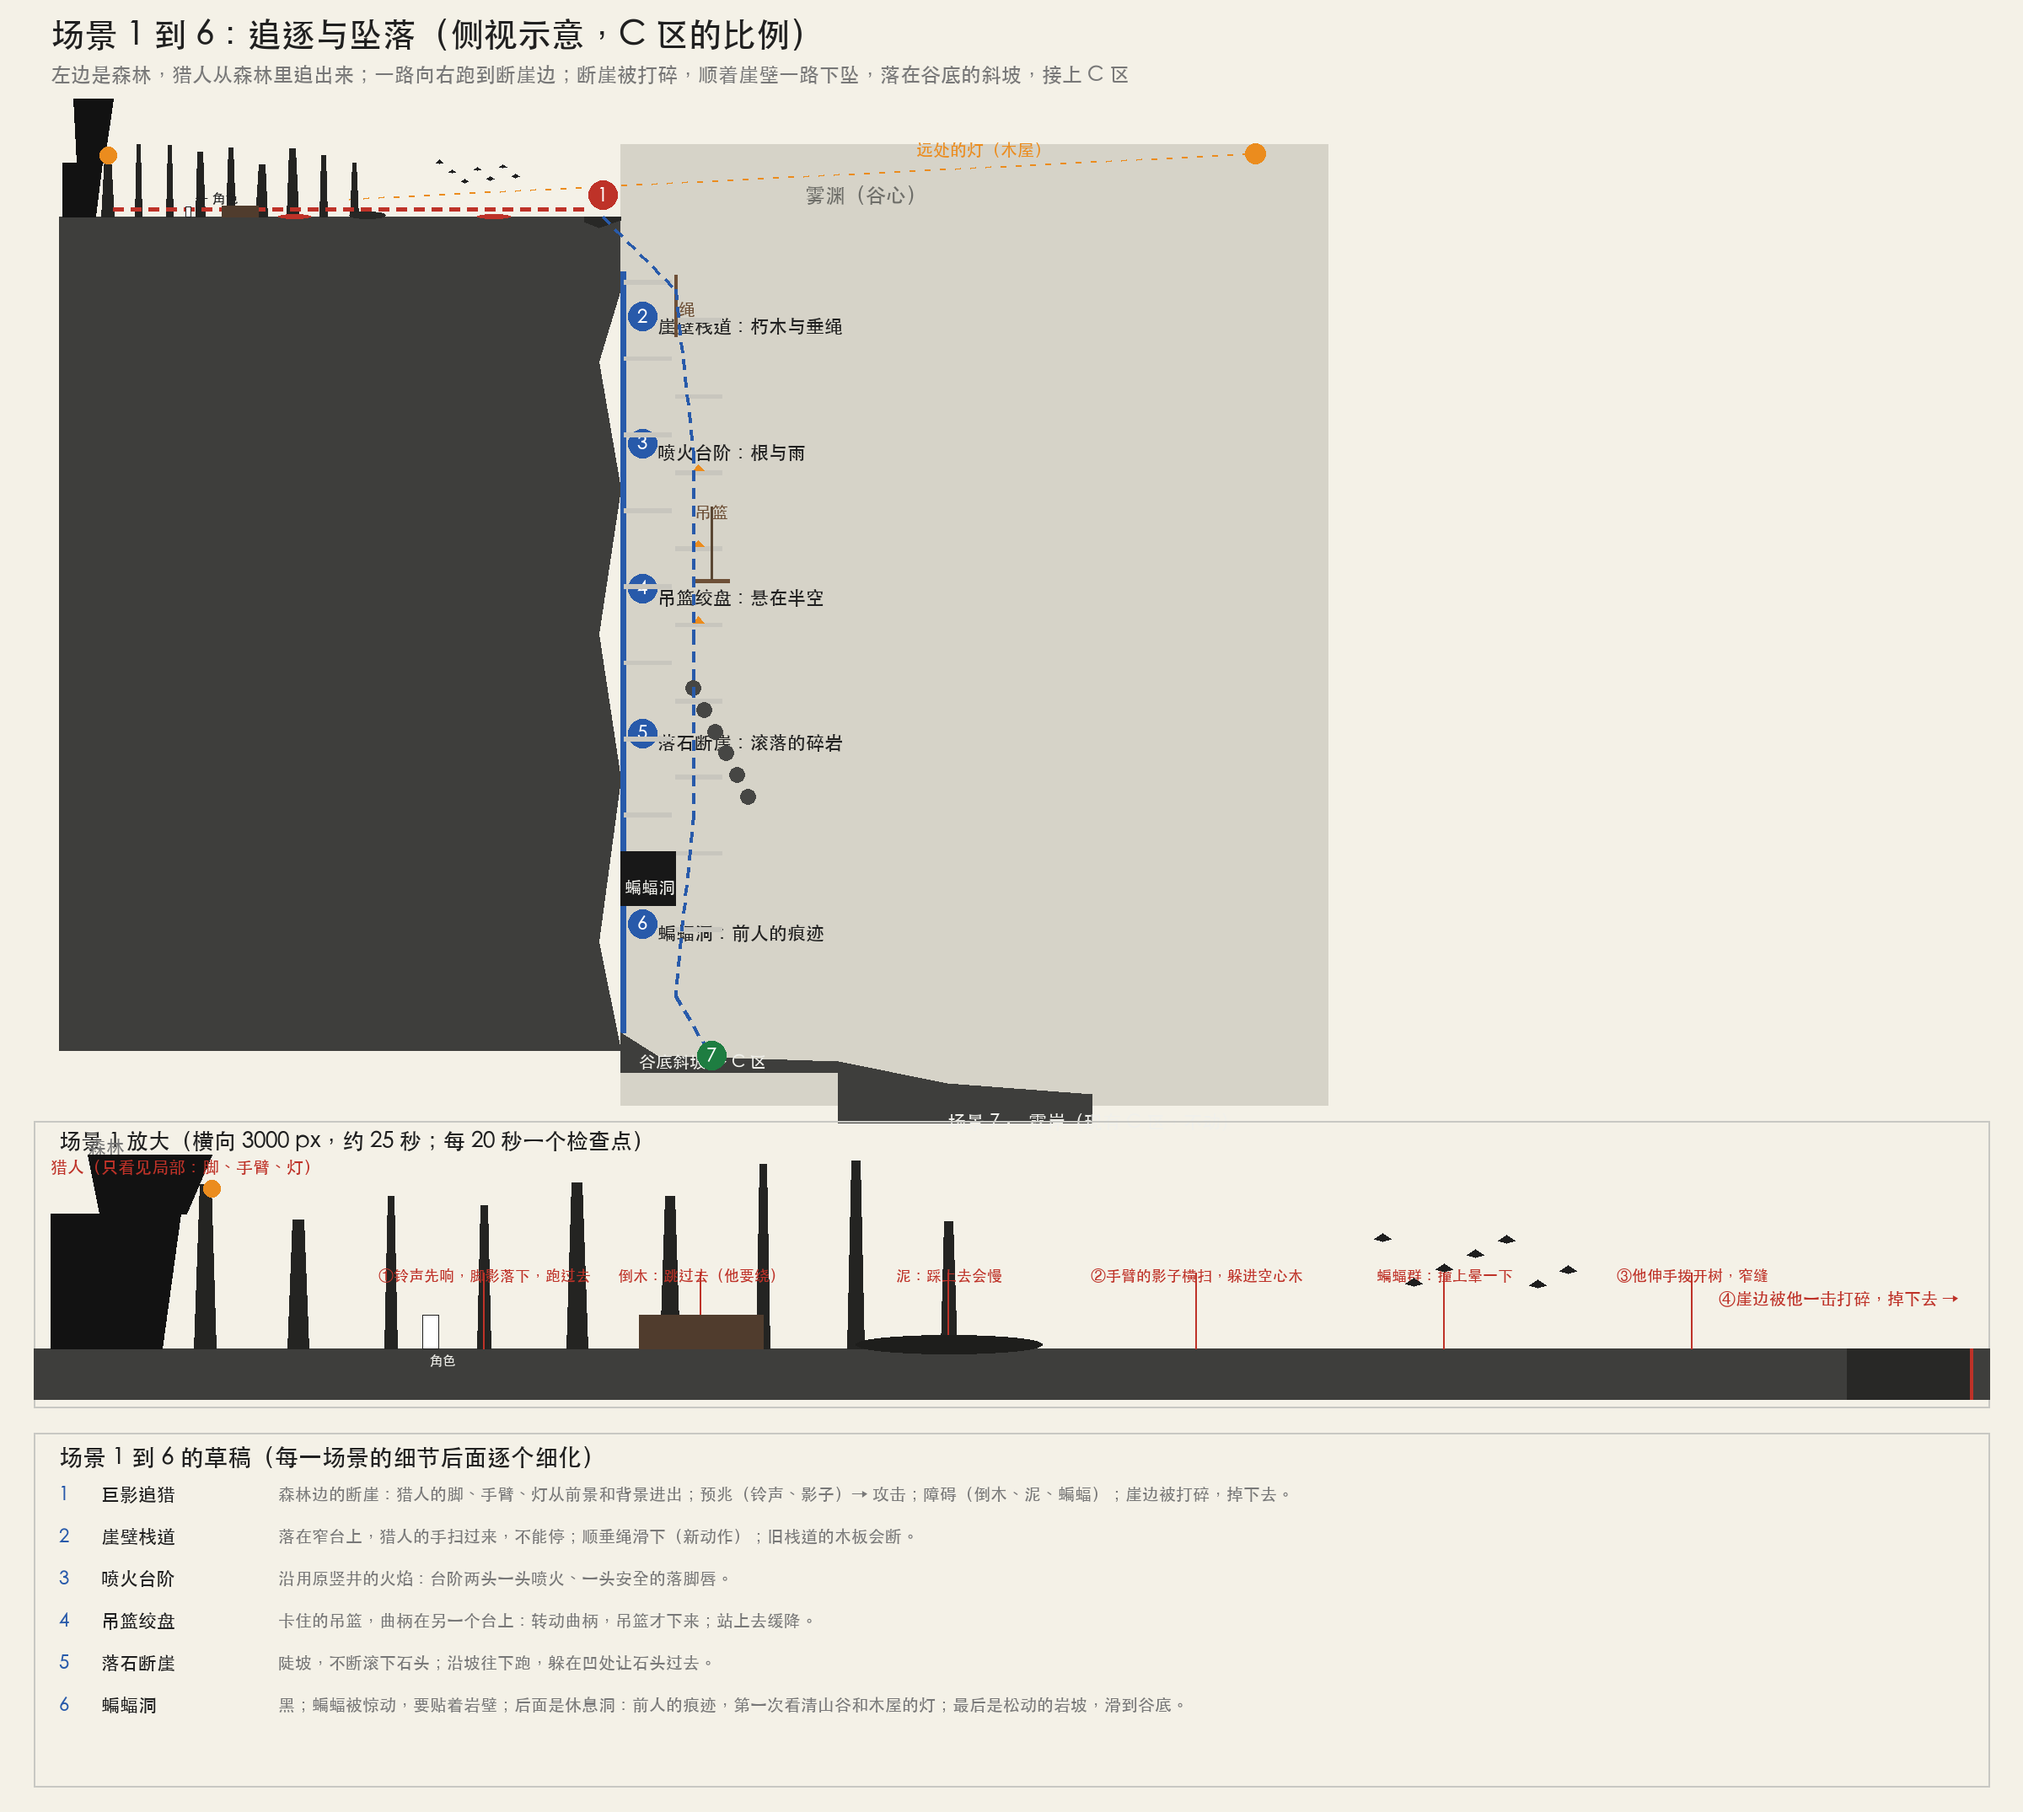
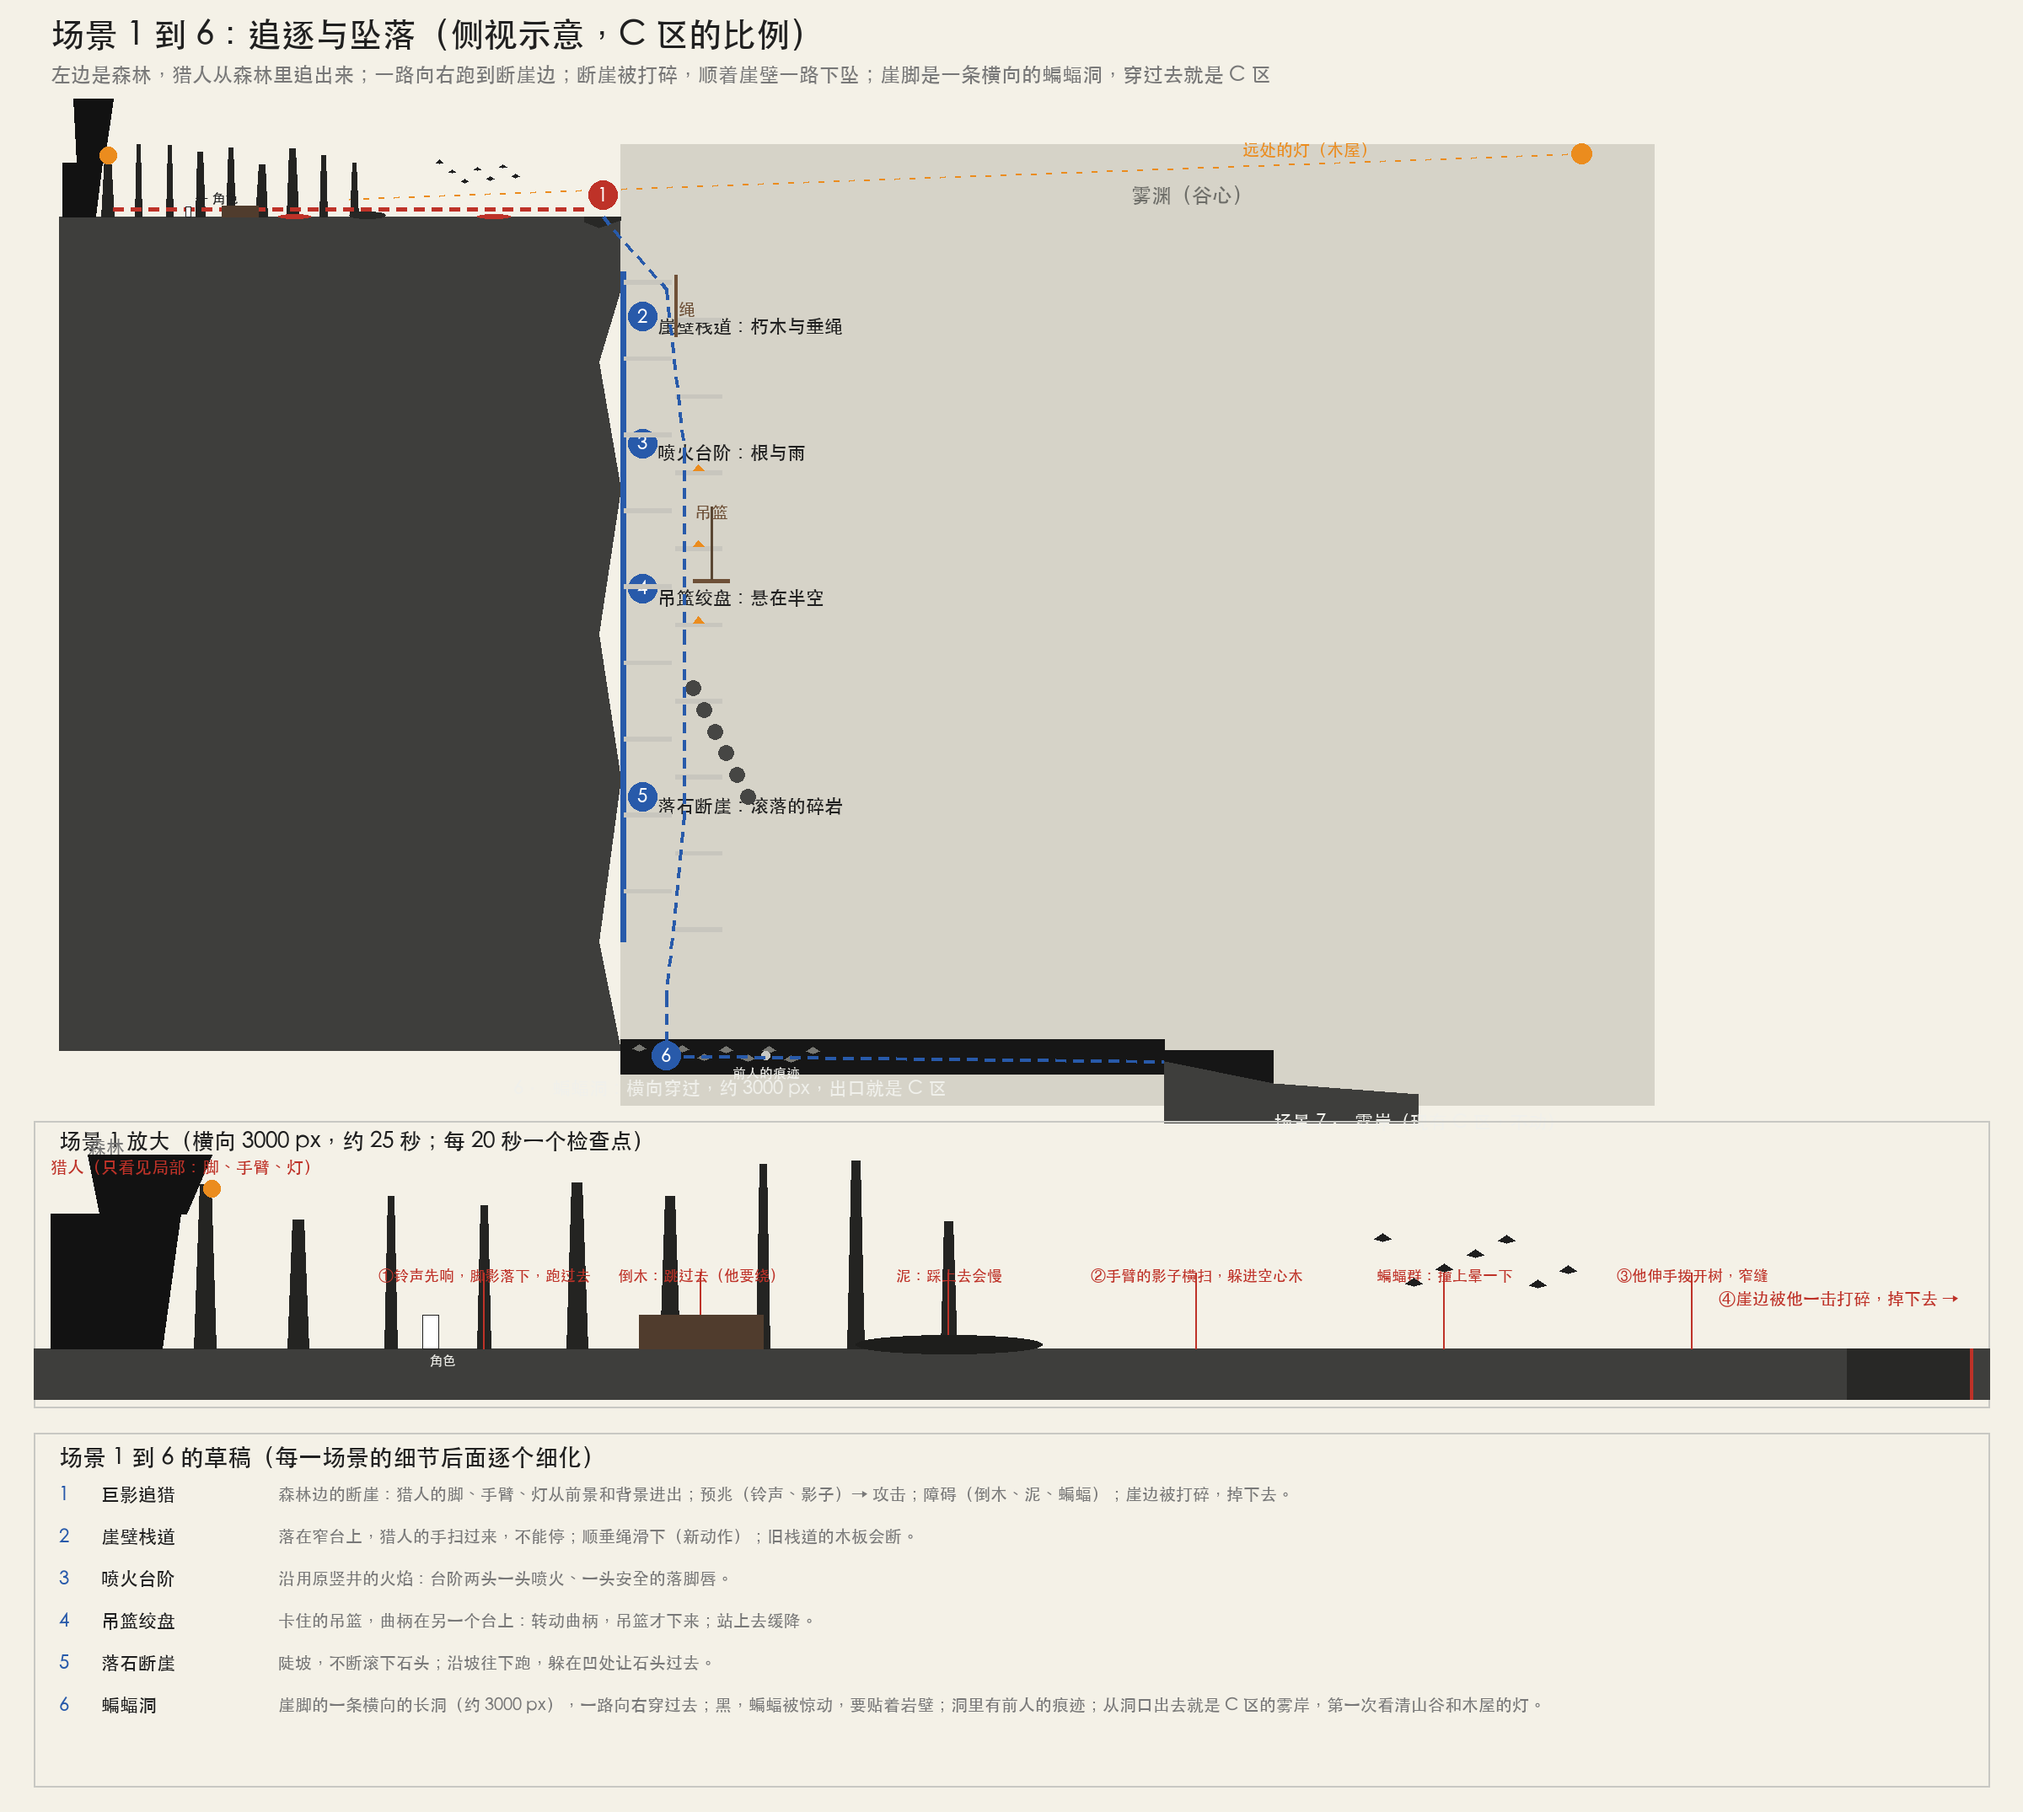
Docs: scene 6 is a horizontal bat cave at the foot of the cliff leading out to the C zone

diff --git a/docs/chapters/chapter-01.md b/docs/chapters/chapter-01.md
@@ -43,7 +43,7 @@
 | 3 | 喷火台阶 · 根与雨 | 冒险 | 3 | 沿用原竖井的火焰 |
 | 4 | 吊篮绞盘 · 悬在半空 | 解谜 | 3 | 新做 |
 | 5 | 落石断崖 · 滚落的碎岩 | 冒险 | 3 | 新做 |
-| 6 | 蝙蝠洞 · 前人的痕迹 | 喘息 | 3 | 新做（蝙蝠沿用） |
+| 6 | 蝙蝠洞 · 横穿崖脚 | 冒险 | 3 | 新做（蝙蝠沿用） |
 
 ### 第二部 · 谷底（场景 7 到 17，现有的 C 区，不动）
 | # | 场景 | 约 |
@@ -127,7 +127,7 @@
 - 场景 3：沿用原来的喷火台阶。
 - 场景 4：卡在半路的**吊篮**，曲柄在另一个台上，转动曲柄吊篮才下来；站上去，带着人缓降。
 - 场景 5：陡坡上不停滚下石头，要沿着坡往下跑，躲在凹处让石头过去。
-- 场景 6：蝙蝠洞，黑，蝙蝠被惊动要贴着岩壁躲；然后是休息洞，前人留下的痕迹，第一次看清整个山谷和远处木屋的灯；最后一段松动的岩坡，滑到谷底。
+- 场景 6：**崖脚的一条横向的长洞（约 3000 px）**，一路向右穿过去，出口就是 C 区的雾岸。洞里黑，蝙蝠被惊动要贴着岩壁躲；中间有前人留下的痕迹；从洞口出去的那一刻，第一次看清整个山谷和远处木屋的灯。场景 5 的落石断崖落到崖脚，直接进洞，没有切换。
 
 ## 各部的"东西"（反复换功能的，草稿）
 

diff --git a/docs/chapters/scenes/scene-01-chase.md b/docs/chapters/scenes/scene-01-chase.md
@@ -73,3 +73,4 @@
 
 - 森林里留下被踩断的树、坑；崖边碎裂。
 - 玩家掉进场景 2，猎人留在上面（他的手最后一次从崖边伸下来，没抓到）。
+- 后面场景 2 到 5 沿崖壁一路下降，到崖脚进入场景 6：一条横向的蝙蝠洞，穿过去就是 C 区。
